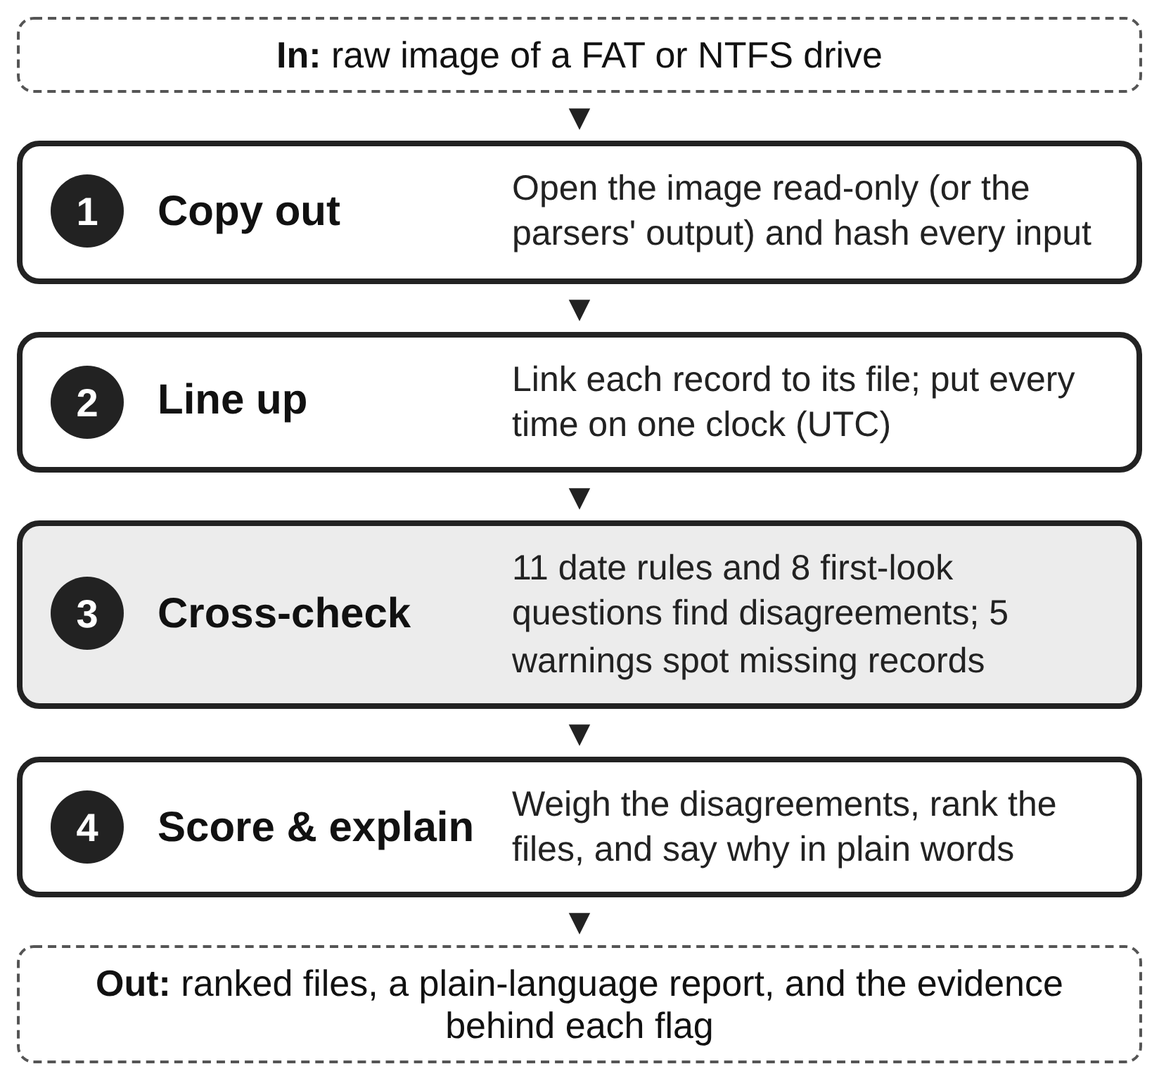
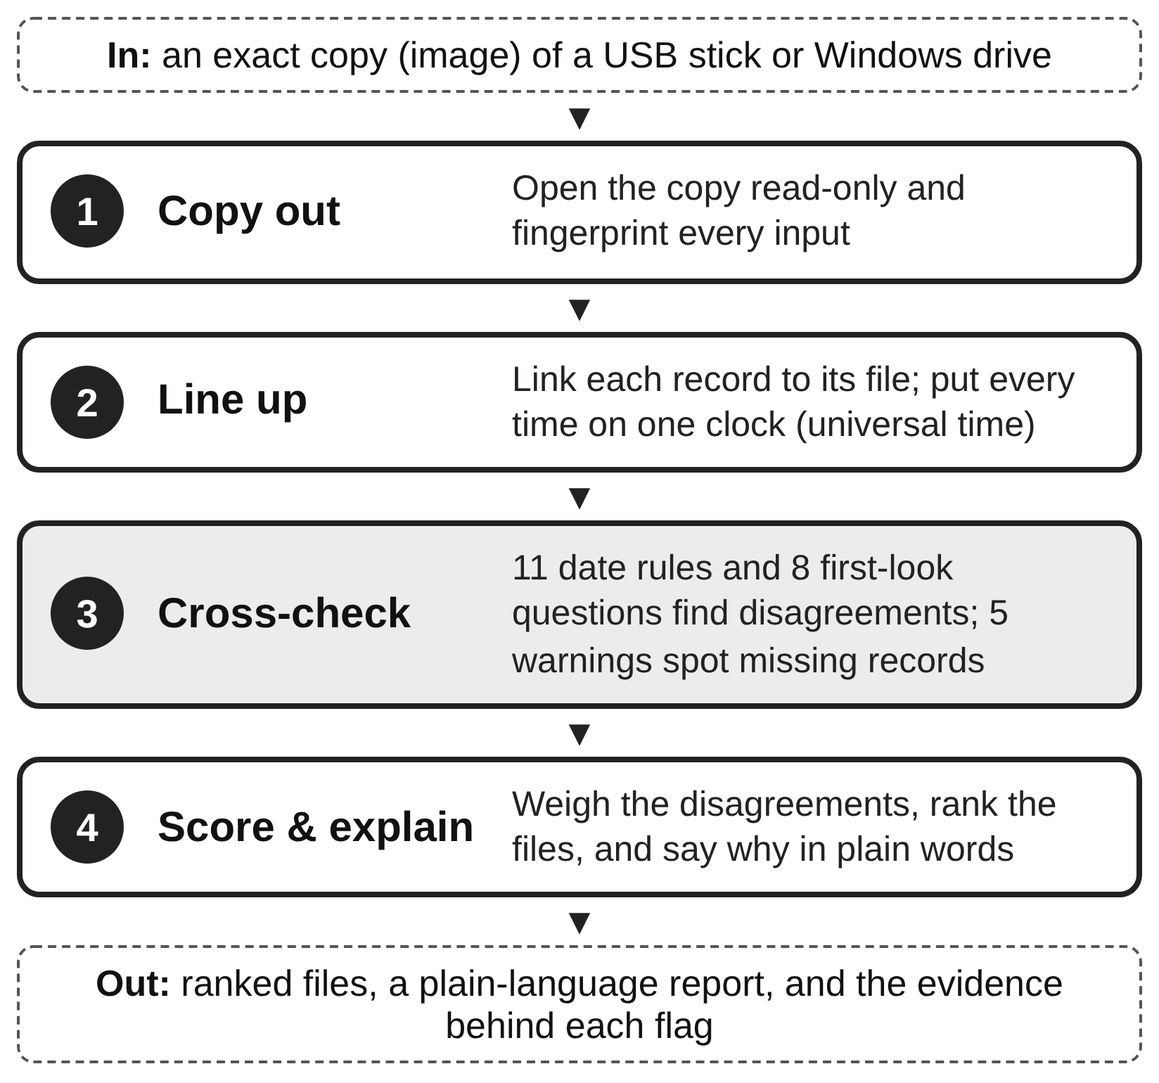
Paper: plain-language Sections II and III with report screenshots; fewer references, acronyms spelled out
Section II keeps the critique of prior work but drops six secondary references (to be
renumbered when the rewrite is done). Section III is told around five figures: the
pipeline, the eight first-look questions, the date rules in the report's own words,
the ranked leads and one lead opened. The two NTFS date copies are called the visible
and protected dates, as in the tool's report. PDF and Word files are not rebuilt yet.

Claude-Session: https://claude.ai/code/session_01BBDXdDmrrcLo1oiYm2nAUX

Changed region(s): [[0.4333, 0.1558, 0.9284, 0.2494], [0.0928, 0.0312, 0.8975, 0.0623], [0.6808, 0.374, 0.8975, 0.4052]]

diff --git a/paper/figures/fig1_pipeline.html b/paper/figures/fig1_pipeline.html
@@ -11,11 +11,11 @@ body{margin:0;background:#fff;font-family:"Liberation Sans",Arial,sans-serif;col
 .arr{text-align:center;font-size:13px;line-height:15px;color:#222;margin:1px 0}
 </style>
 <div id="fig">
-<div class="io"><b>In:</b> raw image of a FAT or NTFS drive</div>
+<div class="io"><b>In:</b> an exact copy (image) of a USB stick or Windows drive</div>
 <div class="arr">&#9660;</div>
-<div class="box"><div class="n">1</div><div class="t">Copy out</div><div class="d">Open the image read-only (or the parsers' output) and hash every input</div></div>
+<div class="box"><div class="n">1</div><div class="t">Copy out</div><div class="d">Open the copy read-only and fingerprint every input</div></div>
 <div class="arr">&#9660;</div>
-<div class="box"><div class="n">2</div><div class="t">Line up</div><div class="d">Link each record to its file; put every time on one clock (UTC)</div></div>
+<div class="box"><div class="n">2</div><div class="t">Line up</div><div class="d">Link each record to its file; put every time on one clock (universal time)</div></div>
 <div class="arr">&#9660;</div>
 <div class="box key"><div class="n">3</div><div class="t">Cross-check</div><div class="d">11 date rules and 8 first-look questions find disagreements; 5 warnings spot missing records</div></div>
 <div class="arr">&#9660;</div>

diff --git a/paper/paper.md b/paper/paper.md
@@ -7,7 +7,7 @@ note: Draft of the proposed solution and evaluation plan, November 1, 2026
 ---
 
 ::: abstract
-People hiding evidence on a computer can change a file's dates, rename a photo so it looks like a program, or tuck one file inside another, each in a few seconds. But Windows and its file system write the same facts down in several separate places, and a cover-up rarely changes all of them. I built the Artifact Disagreement Scorer (ADS), a tool that compares these records with each other and points the examiner to the files where they disagree, with a plain-English reason for each one. It runs as a command-line program or as a single web page that works offline. I am testing it on the two disk images from this course's lab projects, using my own EnCase and FTK findings as the answer key. On Project 1 it ranked six of the seven evidence files in its top ten out of 2,246 files. On Project 2, where the checks were locked before I examined the image, it found seven of the sixteen evidence files among 4,818, five of them in its top ten.
+People hiding evidence on a computer can change a file's dates, rename a photo so it looks like a program, or tuck one file inside another, each in a few seconds. But Windows and its file system write the same facts down in several separate places, and a cover-up rarely changes all of them. I built the Artifact Disagreement Scorer, a tool that compares these records with each other and points the examiner to the files where they disagree, with a plain-English reason for each one. It runs as a command-line program or as a single web page that works offline. I am testing it on the two disk images from this course's lab projects, using my own findings from EnCase and the Forensic Toolkit (FTK) as the answer key. On Project 1 it ranked six of the seven evidence files in its top ten out of 2,246 files. On Project 2, where the checks were locked before I examined the image, it found seven of the sixteen evidence files among 4,818, five of them in its top ten.
 :::
 
 ::: keywords
@@ -16,107 +16,108 @@ Digital forensics, anti-forensics, timestamp tampering, NTFS, triage, tool valid
 
 # The Problem
 
-Hiding evidence is cheap. Any program can rewrite the dates Windows shows for a file, a trick called *timestomping* [4]. A photo can be renamed `gzip` so it sits among system programs, and a file can be hidden inside a ZIP or after the end of another file.
+Hiding evidence is cheap. Any program can rewrite the dates Windows shows for a file, a trick called *timestomping* [4]. A photo can be renamed *gzip* so it sits among system programs, and a file can be hidden inside a ZIP or after the end of another file.
 
-Hiding it *well* is much harder. Windows records the same facts in more than one place, written by different parts of the system for different reasons. The file system keeps a second, harder-to-reach copy of every file's dates. Windows writes a shortcut file when a document is opened, a Prefetch file when a program runs, and event logs for logons and clock changes. A file's name says what it should be, and its first bytes say what it really is. Someone covering their tracks may fix one of these, but rarely all of them, so a cover-up leaves records that *disagree*.
+Hiding it *well* is much harder. Windows records the same facts in more than one place, written by different parts of the system for different reasons. Windows' file system (NTFS) keeps a second, harder-to-reach copy of every file's dates. Windows writes a shortcut file when a document is opened, a Prefetch file when a program runs, and event logs for logons and clock changes. A file's name says what it should be, and its first bytes say what it really is. Someone covering their tracks may fix one of these, but rarely all of them, so a cover-up leaves records that *disagree*.
 
-Today's tools leave that comparison to the examiner. EnCase and FTK display every record, but the examiner has to notice that two of them conflict. Specialized tools automate a single check, and a single check is noisy: normal use also produces odd dates, so one filter can return hundreds of files.
+Today's tools leave that comparison to the examiner. EnCase and the Forensic Toolkit display every record, but the examiner has to notice that two of them conflict. Specialized tools automate a single check, and a single check is noisy: normal use also produces odd dates, so one filter can return hundreds of files.
 
-The question for this paper is the one from my topic proposal: *does combining many disagreement checks point an examiner to hidden evidence better than any single check?* To answer it I built ADS. Fig. 1 shows the front page of its report on the Project 2 image: of 5,607 entries on the drive, 164 files have at least one clue and 7 are marked "look first".
+The question for this paper is the one from my topic proposal: *does combining many disagreement checks point an examiner to hidden evidence better than any single check?* To answer it I built the Artifact Disagreement Scorer. Fig. 1 shows the front page of its report on the Project 2 image: of 5,607 entries on the drive, 164 files have at least one clue and 7 are marked "look first".
 
-![The ADS report on the Project 2 image narrows the whole drive to a short list.](figures/shot_funnel.png){width=column}
+![The Artifact Disagreement Scorer's report on the Project 2 image narrows the whole drive to a short list.](figures/shot_funnel.png){width=column}
 
-Section II covers what already exists, Section III shows how ADS works, and Section IV explains how I am testing it.
+Section II covers what already exists, Section III shows how the tool works, and Section IV explains how I am testing it.
 
-# Background and Related Work
+# What Already Exists
 
-**Terms.** NTFS stores four dates for each file in its *Master File Table* (MFT): Created, Modified, Accessed, and Entry-changed (when the file's record last changed). It stores them twice. The *Standard Information* copy (SI) is what Explorer shows and what programs can set; the *File Name* copy (FN) is kept by the file system and cannot be set through the normal programming interface. This paper writes SI-C for the SI created date, FN-C for the FN created date, and so on.
+**Two copies of every date.** Windows' file system keeps a table with one entry per file (the Master File Table). Each entry holds four dates, for when the file was created, last changed, last opened, and when its entry last changed. It holds them *twice*. The **visible dates** (formally, Standard Information) are what Windows Explorer shows, and any program can change them. The **protected dates** (formally, File Name) are kept by the file system itself and cannot be set the normal way. When the visible dates say a file is older than the protected dates do, something is off.
 
-**Single checks.** Early work set out rules that NTFS dates obey in normal use [3] and noted that SI dates earlier than FN dates [5], or SI dates with an all-zero fraction of a second [6], suggest tampering. Magnet AXIOM reports SI and FN mismatches [10], which is one check (R6 below) on its own; timeline tools such as Plaso merge records by time without testing whether they agree. Recent work studies NTFS dates in more depth [11], [12]. Willassen [7] and Casey [8] showed that the order in which records are allocated on disk, like layers of rock, can reveal a file that claims to be older than its neighbors. File-signature analysis, which compares a file's name with its first bytes, is a standard single check in EnCase and FTK.
+**Single checks.** Chow and colleagues listed the rules that these dates follow in normal use [3]. Willassen [7] showed that the order in which files were laid down on disk, like layers of rock, can expose a file that claims to be older than its neighbors. Magnet AXIOM, a commercial tool, flags files whose visible and protected dates disagree [10], which is just one of my tool's checks on its own. EnCase and the Forensic Toolkit compare a file's name with its first bytes, another single check. Timeline tools put records in time order but do not test whether they agree.
 
-**Combining records.** Palmbach and Breitinger [1] are the closest work. They showed that the change journal, LNK files, Prefetch, and event logs all carry traces of timestamp changes, concluded that none is reliable alone, and proposed five rules across them. They recommend combining sources but did not measure whether combining helps, and their test used four files on an unused system. Vanini, Hargreaves, and Breitinger [2] proposed seven factors for rating how hard a record is to tamper with, but they rate the record type, not whether a given drive shows tampering.
+**Combining records.** The closest work is Palmbach and Breitinger [1]. They showed that the change journal, shortcut files, Prefetch and event logs all keep traces of timestamp changes, concluded that none is reliable alone, and proposed five rules that use them together. Vanini, Hargreaves and Breitinger [2] proposed a way to rate how hard each *type* of record is to fake.
 
-**The gap.** No prior work measures, on images an examiner actually receives, whether combining cross-record checks reaches planted evidence with less effort than the best single check.
+**What is missing.** Each of these stops short in a way that matters to an examiner:
 
-# Proposed Solution
+- Palmbach and Breitinger [1] recommend combining sources but never measure whether combining helps. Their test used four files on an unused computer, so it cannot say how often ordinary activity sets off their rules.
+- Vanini and colleagues [2] rate record types in general, not whether a particular drive shows tampering.
+- The single checks are each easy to dodge or to trip by accident, and the commercial tools leave it to the examiner to connect them.
 
-## Overview and Design Goals
+No one has measured, on the kind of images an examiner actually receives, whether combining these checks finds planted evidence faster than the best single check. That is the gap my tool is built to test.
 
-The Artifact Disagreement Scorer (ADS) opens a raw image of a FAT or NTFS drive, lines up its independent records file by file, applies two families of checks, and combines the results into one ranked list (Fig. 2). Four goals shape the design:
+# How the Tool Works
 
-1. **Combine, do not trust one check.** A file rises when several independent checks disagree about it, so normal noise in one record does not put it at the top.
-2. **Treat a missing record as a clue.** Deleting a record is often easier than faking one [1]. ADS reports cleared or missing records instead of silently skipping the rules that need them.
-3. **Explain every flag.** Every score breaks down into the checks that fired and the values they compared, in plain language, so an examiner can state and defend why a file was flagged.
-4. **Usable by non-specialists.** Findings go to investigators, lawyers, and commanders. ADS runs from a point-and-click window, never changes the image, and writes one web page that explains each flag in plain sentences.
+## The Idea in One Picture
 
-![The ADS pipeline. Every input is hashed, so the chain of custody reaches each intermediate file.](figures/fig1_pipeline.png){width=2.9in}
+The Artifact Disagreement Scorer opens an exact copy of a drive without changing it, lines up each file's records, asks two sets of questions, and ranks the files by how many independent questions disagree about them (Fig. 2). Four goals shape it:
 
-**Scope.** Raw images of FAT and NTFS drives; for the date rules, changes made from inside a running Windows system. Changes made by editing the raw disk offline bypass the journals and are out of scope.
+1. **Combine; never trust one check.** A file rises only when several independent checks disagree about it, so normal noise in one record does not put it at the top.
+2. **A missing record is a clue.** Deleting a record is often easier than faking one [1], so the tool reports records that were cleared or are missing instead of quietly skipping the checks that need them.
+3. **Explain every flag.** Each flag comes with a plain sentence and the values behind it, so an examiner can state and defend why a file was picked.
+4. **Usable by non-specialists.** Findings go to investigators, lawyers and commanders. The tool runs from the command line or as one web page that works offline, and its report is written in plain English.
 
-## Windows Date Checks
+![How the tool works. Every input is fingerprinted, so each result traces back to the original drive copy.](figures/fig1_pipeline.png){width=2.9in}
 
-Table I lists the five records the date rules compare. Each is written by a different part of Windows, which is what makes their agreement meaningful.
+**Scope.** Copies of USB sticks (the FAT file system) and Windows drives (the NTFS file system). The date rules target changes made from inside a running Windows system; editing a raw disk offline bypasses Windows' own logs and is out of scope.
 
-Table: Records used by the date checks
+## Eight First-Look Questions, for Any Drive
 
-| Record | Written by | What ADS uses | Linked by |
-|---|---|---|---|
-| MFT (SI and FN) | File system | Eight dates, record number | File ID |
-| Change journal ($J) | File system | Create and date-change entries | File ID |
-| Shortcut (LNK) files | Windows shell | Own dates; copy of target's dates | Path |
-| Prefetch | Windows | Program name, last 8 run times | Path, time |
-| Event logs | Event Log service | Logons, log clearing, clock changes | Time |
+Many drives an examiner receives are not Windows system drives: a USB stick, or a data drive full of another system's files. So the tool first asks eight questions of every file, each comparing what a file claims to be with what it holds. Fig. 3 shows them as the report lists them, with how many files each one flagged on Project 2. For example, *disguised file* (C1) compares a file's name with its first bytes; *stands out from its neighbors* (C5) finds the only photo in a folder of programs; *never mentioned* (C6) finds a file that the folder's own guides and web pages never name, though they name its neighbors; and *changed at an unusual time* (F1) finds a file written apart from the bulk copy around it.
 
-Journal entries carry the file ID (MFT record number plus a reuse counter), so those links are exact; shortcuts and Prefetch name files by path; event logs are linked by time. ADS reads the MFT straight from an NTFS image, or all five records from the output of Eric Zimmerman's parsers [9]. Each rule gives one of three answers: *consistent*, *violated*, or *cannot check* when a record is missing (Table II).
+![The eight first-look questions as the report shows them, with how many Project 2 files each flagged.](figures/shot_questions.png){width=column}
 
-Table: Date rules (C = created, A = accessed, E = entry changed)
+## Eleven Date Rules for Windows Drives
 
-| ID | The rule checks that... | From |
+Windows keeps five records that the date rules compare (Table I). Each is written by a different part of Windows, which is what makes their agreement meaningful.
+
+Table: The records the date rules compare
+
+| Record | Written by | What the tool uses |
 |---|---|---|
-| R1 | SI-E is not earlier than the journal's last date-change entry | [1] |
-| R2 | A shortcut's SI-E matches its target's SI-E | [1] |
-| R3 | A shortcut was not created before its target | [1] |
-| R4 | A shortcut's SI-A is not after its target's SI-A | [1] |
-| R5 | SI-C and SI-M fall inside a logged-on session | [1] |
-| R6 | SI-C is not earlier than FN-C | [5] |
-| R7 | SI dates do not have an all-zero fraction of a second | [6] |
-| R8 | The journal's file-created entry agrees with SI-C | New |
-| R9 | The target date copied inside a shortcut agrees with SI-C | New |
-| R10 | A date change does not line up with an unusual program run | [1] ext. |
-| R11 | SI-C is plausible next to neighboring MFT records | [7], [8] |
+| Master File Table | File system | Visible and protected dates (8 per file) |
+| Change journal | File system | When files were created and their dates changed |
+| Shortcut files | Windows Explorer | Their own dates, and a copy of the target's dates |
+| Prefetch files | Windows | Which programs ran, and their last 8 run times |
+| Event logs | Windows | Logons, log clearing, clock changes |
 
-R8 and R9 are the main new rules. A journal's file-created entry is not touched by a later change to the visible dates, so one dated well after the claimed creation date is strong evidence of backdating. Every shortcut keeps a copy of its target's dates, so a creation date that has since moved is suspicious even when the shortcut's own dates look normal. Five warnings keep missing records visible: **S1** an event log was cleared, **S2** the change journal was deleted or starts late, **S3** event logs have numbering gaps, **S4** the system clock was changed, and **S5** files clearly opened have no shortcut or programs that ran have no Prefetch file. They mark every "consistent" answer that rests on a damaged record as low-confidence.
+Table II lists the rules in the same plain words the report uses. Each rule answers *consistent*, *violated*, or *cannot check* when a record it needs is missing.
 
-## First-Look Questions
+Table: The date rules
 
-Many drives an examiner receives are not Windows system drives: a USB stick is often FAT, and a data drive may hold another system's files. The same idea applies to what any drive records about a file's content. Table III lists eight questions ADS asks of every file on a FAT or NTFS image.
+| Rule | Flags a file when... | From |
+|---|---|---|
+| R1 | Its record-change date is before the journal's own entry | [1] |
+| R2 | A shortcut disagrees on its last-change date | [1] |
+| R3 | A shortcut is older than the file it points to | [1] |
+| R4 | A shortcut was opened after the file's last-opened date | [1] |
+| R5 | It changed while nobody was logged on | [1] |
+| R6 | Its visible date is older than the protected copy | [10] |
+| R7 | Its date was set to a round number of seconds | Known |
+| R8 | It was created later than its visible date says | New |
+| R9 | A shortcut remembers a different creation date | New |
+| R10 | Its date changed as an unusual program ran | [1] ext. |
+| R11 | It claims to be much older than its neighbors on disk | [7] |
 
-Table: First-look questions
+R8 and R9 are the main new rules. The change journal's "file created" entry is not touched when someone later rewrites the visible dates, so a journal entry dated well after the claimed creation date is strong evidence of back-dating. Every shortcut also keeps a copy of its target's dates, so a creation date that has since moved is suspicious even when the shortcut's own dates look normal. Five warnings (S1 to S5) keep missing records visible: a cleared event log, a deleted or late-starting change journal, gaps in the event log numbering, a changed system clock, and programs that ran without leaving a Prefetch file. Any "consistent" answer that rests on a damaged record is marked low-confidence.
 
-| ID | Where two records disagree |
-|---|---|
-| C1 | The name says one type; the first bytes say another |
-| C2 | The file continues after its format says it ends |
-| C3 | The file is locked with a password |
-| C4 | A password is written out in plain words inside a file |
-| C5 | The file is unlike everything else in its folder |
-| C6 | The folder's documentation names its neighbors but not it |
-| C7 | An archive holds locked or personal files |
-| F1 | Written at a different time from the bulk copy around it |
+## Scoring: Agreement Beats Noise
 
-## Scoring
-
-Both families are scored the same way. The score rewards agreement among independent checks and discounts checks that fire often:
+Both sets of checks are scored the same way. A file's score is the weighted share of the checks that fired, out of the checks that could be run on it:
 
 $$ D(f) = \frac{\sum_r w_r \, v_r(f)}{\sum_r w_r} $$
 
-Here v_r(f) is 1 if check r fires for file f and 0 if not; checks that cannot be run are left out of both sums, and the number that could be run is reported beside D(f). Each weight w_r is ln(1/p_r), where p_r is how often check r fires on the image being examined, so a check that fires on 2% of its files counts for more than one that fires on 20%. For the date rules, w_r is also multiplied by a factor from 1 to 3 built from the seven tamper-resistance factors of [2], so records a user cannot easily reach (the journal, the FN dates) count for more than records a user can edit or delete (shortcuts, Prefetch). [2] scores the SI and FN dates itself; for the other records I applied its categories, and those scores are provisional. To my knowledge this is the first use of [2] as a numeric input to detection.
+Here v_r(f) is 1 if check r fires for file f and 0 if not. A check that fires on almost every file says little, so each weight is w_r = ln(1/p_r), where p_r is how often check r fires on that drive: a check that fires on 2% of files counts for more than one that fires on 20%. For the date rules, records that a user cannot easily reach (the change journal, the protected dates) also count up to three times more than records a user can edit or delete (shortcuts, Prefetch), using the tamper-resistance ratings of Vanini and colleagues [2]. To my knowledge this is the first use of those ratings as a number inside a detector. A simple weighted sum was chosen over machine learning because there is no labelled training data and because a sum keeps every flag explainable. Fig. 4 shows the result on Project 2: the files ranked by score.
 
-A weighted sum was chosen over a trained classifier because there is no labeled training data and because a sum keeps every flag explainable. Files are ranked by D(f); flagged files whose date evidence falls within five minutes of each other are grouped with any program runs and warnings in that window, turning a list of files into a candidate event.
+![The top five leads on the Project 2 image, ranked by score.](figures/shot_leads.png){width=column}
+
+## Every Flag Explained
+
+Opening a lead shows why it was picked (Fig. 5). For *attr.html*, three independent questions agree: its name says web page but its first bytes (FF D8 FF) say photo; it is the only photo in its folder; and the drive's guides and web pages name three of its four neighbors but never this file. Each line is a sentence an examiner can repeat in a report, with the evidence printed under it.
+
+![One lead opened: each check that fired is explained in a plain sentence, with the evidence under it.](figures/shot_lead_open.png){width=2.6in}
 
 ## Implementation
 
-ADS is written in Python 3 with only the standard library, so it runs on any computer with Python installed. It reads FAT and NTFS images itself, read-only. Both readers were checked against The Sleuth Kit: the FAT reader matched it byte for byte on all 4,923 files of the Project 1 image, and the NTFS reader matched it on every file of a test image built to include fragmented, hard-linked, hidden and deleted files, and on 3,605 files of a larger partitioned image. Every input is hashed with SHA-256. Each check is a separate function that records the values it compared, and the same code produces each single-check baseline ("C1 only," "R6 only") from identical inputs. The pipeline passes 59 automated tests.
+The tool is written in Python 3 using only its standard library, so it runs on any computer with Python installed. It reads the drive copies itself and never writes to them. Both of its drive readers were checked against The Sleuth Kit, a standard open-source forensic toolkit: the USB-stick reader matched it byte for byte on all 4,923 files of the Project 1 image, and the Windows-drive reader matched it on a test image built with fragmented, linked, hidden and deleted files, and on 3,605 files of a larger image. Every input is fingerprinted with SHA-256. The same code produces the "one check only" results that the evaluation compares against. A browser edition puts the whole tool in a single offline web page, and it gives exactly the same results as the command line on both course images. The code passes 59 automated tests.
 
 # Evaluation Plan
 
